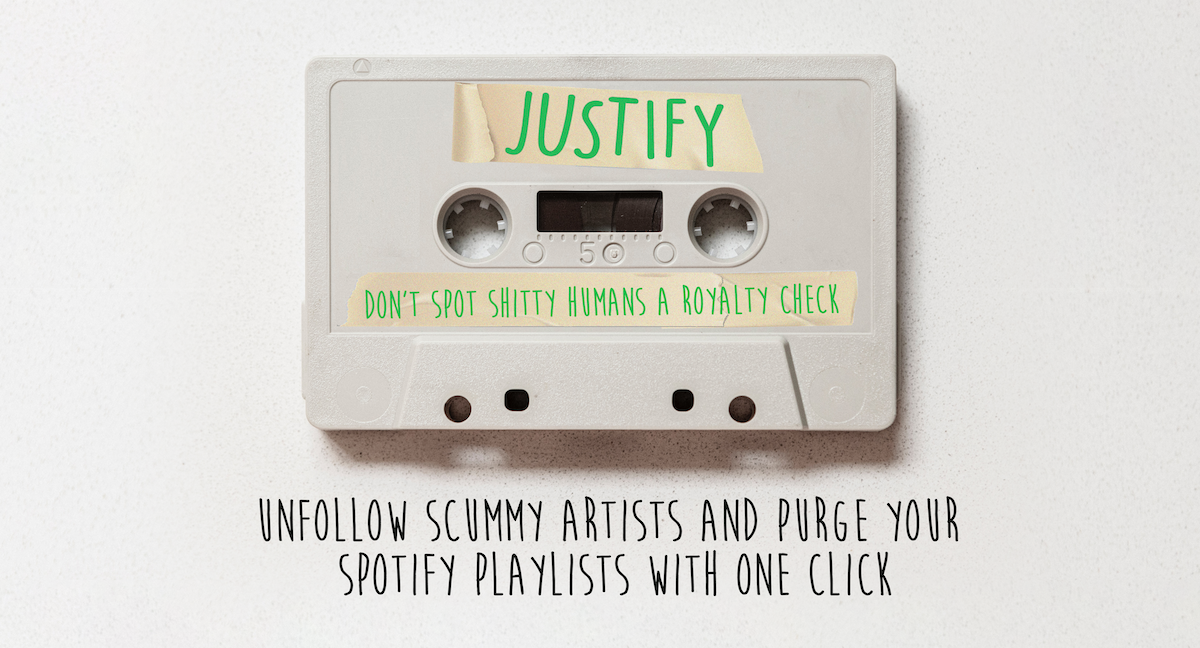
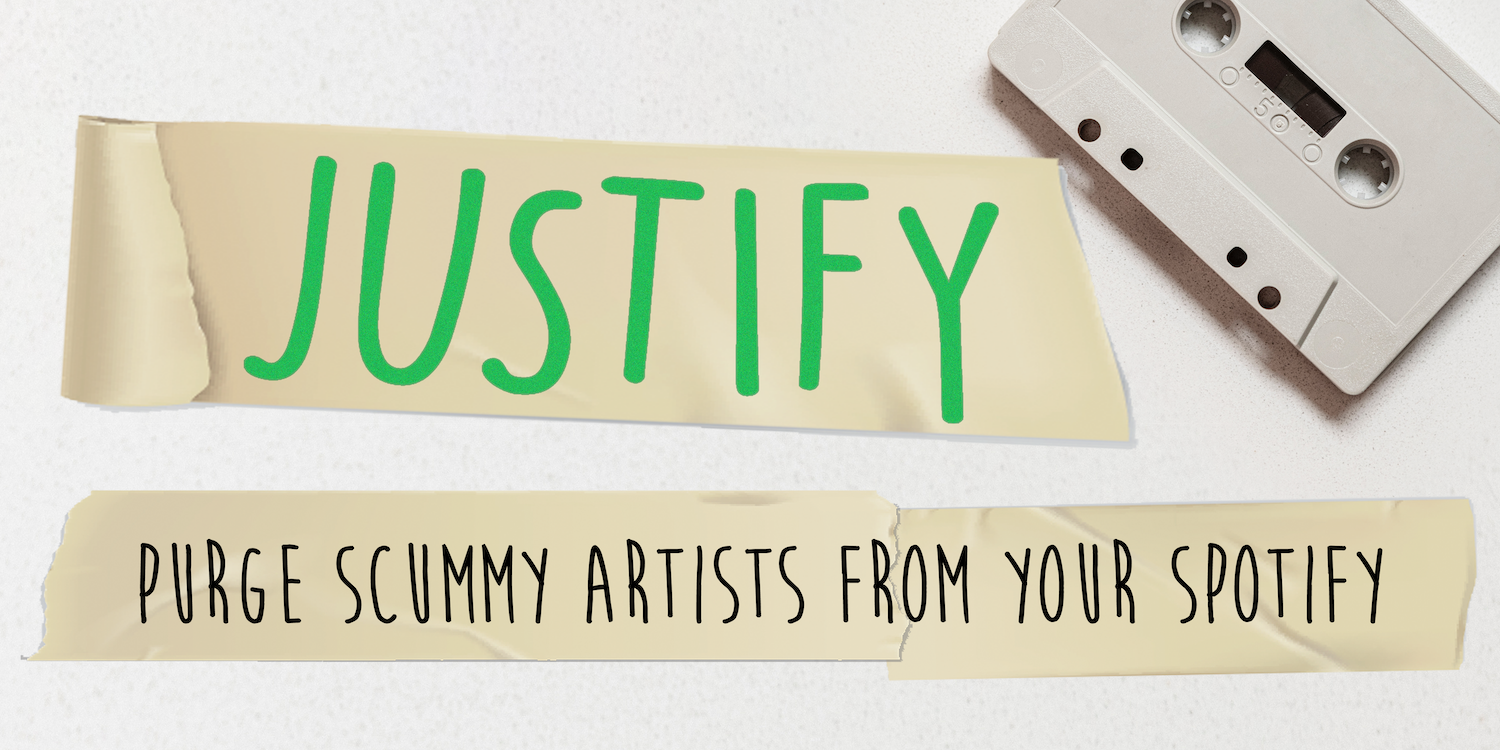
Updated Share Image
- Updated social sharing buttons
- Updated social share image

diff --git a/index.html b/index.html
@@ -1,6 +1,5 @@
 <!DOCTYPE html>
 <html>
-    
 
   <meta charset="UTF-8">
   <meta http-equiv="X-UA-Compatible" content="IE=edge">
@@ -46,7 +45,7 @@ body {
 }
 </style>
 
-<body>     
+  
 <!-- SOCIAL BUTTON -->
     
 <style>
@@ -58,15 +57,15 @@ div.social {
 
 </style>
 
-   <div class="social"; .twitter-share-button, .facebook-button {display: inline-block;}>
+   <div class="social"; .twitter-share-button, .fb-share-button {display: inline-block;}>
 
-  <a href="https://twitter.com/share?ref_src=twsrc%5Etfw" class="twitter-share-button" data-size="large" data-text="Some really scummy people make music. Get &#39;em out of your Spotify! " data-url="http://www.JustifyListening.com" data-hashtags="Justify" data-show-count="false">Tweet</a> <script async src="https://platform.twitter.com/widgets.js" charset="utf-8"></script>
+ <a href="https://twitter.com/share?ref_src=twsrc%5Etfw" class="twitter-share-button" data-text="Some really scummy people make music. Get &#39;em out of your Spotify!" data-url="http://www.JustifyListening.com" data-hashtags="Justify" data-show-count="false">Tweet</a><script async src="https://platform.twitter.com/widgets.js" charset="utf-8"></script>
 
-   <iframe class="facebook-button" src="https://www.facebook.com/plugins/share_button.php?href=http%3A%2F%2Fwww.JustifyListening.com&layout=button&size=large&width=73&height=28&appId" width="73" height="28" style="border:none;overflow:hidden" scrolling="no" frameborder="0" allowTransparency="true" allow="encrypted-media"></iframe>  
-    
+ <iframe src="https://www.facebook.com/plugins/share_button.php?href=https%3A%2F%2Fwww.JustifyListening.com&layout=button&size=small&width=59&height=20&appId" width="59" height="20" style="border:none;overflow:hidden" scrolling="no" frameborder="0" allowTransparency="true" allow="encrypted-media"></iframe>
+       
     </div>       
        
-
+<body>   
     
     
 <!-- INTRO IMAGE -->
@@ -424,7 +423,6 @@ div.social2 {
             </div>
         </div>
     </div>
-</section>
 
 
   <script src="assets/web/assets/jquery/jquery.min.js"></script>
